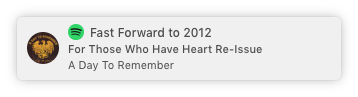
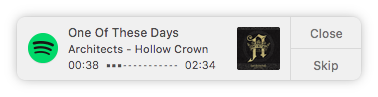
readme update

Changed region(s): [[0.0615, 0.2474, 0.7682, 0.7423], [0.7989, 0.2784, 0.9218, 0.4021], [0.8296, 0.6186, 0.9218, 0.7423]]

diff --git a/README.md b/README.md
@@ -17,7 +17,11 @@
 - [x] Album artwork (toggle)
 - [x] Swap places of spotify icon with artwork (toggle)
 - [x] Toggle disabling of notifications when Spotify is focused (toggle)
-- [ ] Shortcuts for showing notification (customizable)
+- [x] Shortcuts for showing notification (customizable) ✨
+- [x] Show progress of a song in notification ✨
+- [x] Ability to skip song from notification ✨
+- [x] Options to control Spotify from menu bar ✨
+- [ ] Customizable options in notification
 
 [Changelog](https://github.com/nahive/spotify-notify/blob/master/CHANGELOG.md)
 
@@ -26,6 +30,7 @@
 ```
 $ git clone https://github.com/nahive/spotify-notify.git
 $ cd spotify-notify
+$ carthage update --platform macos --no-use-binaries
 $ open SpotifyNotify.xcodeproj
 ```
 ## Contributing
